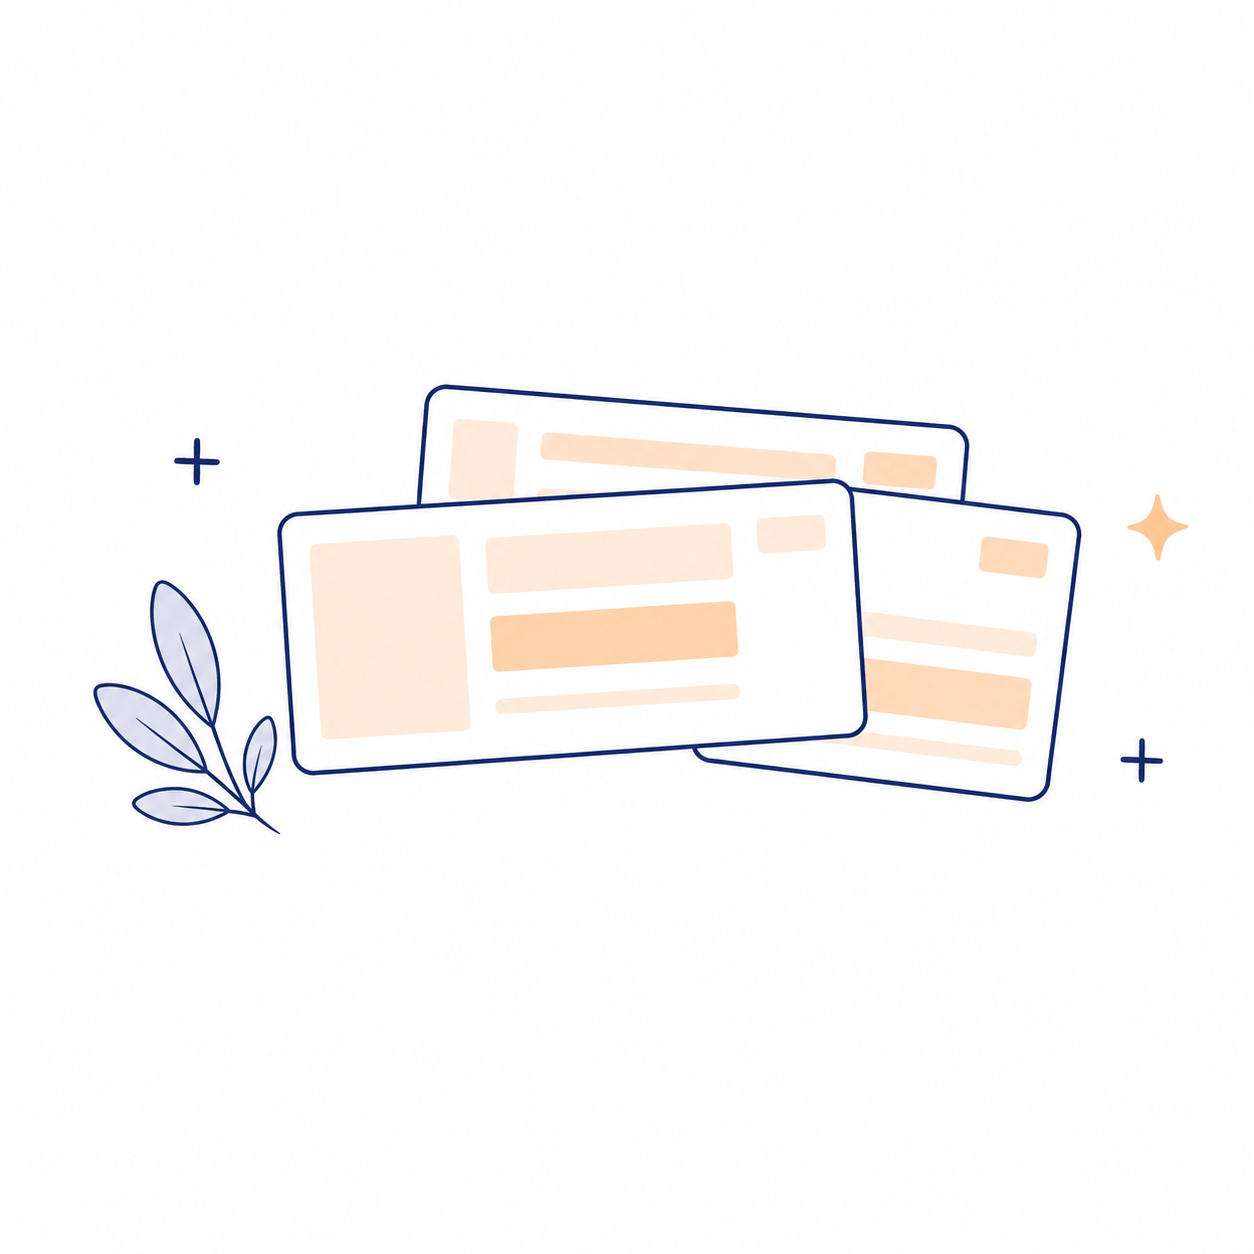
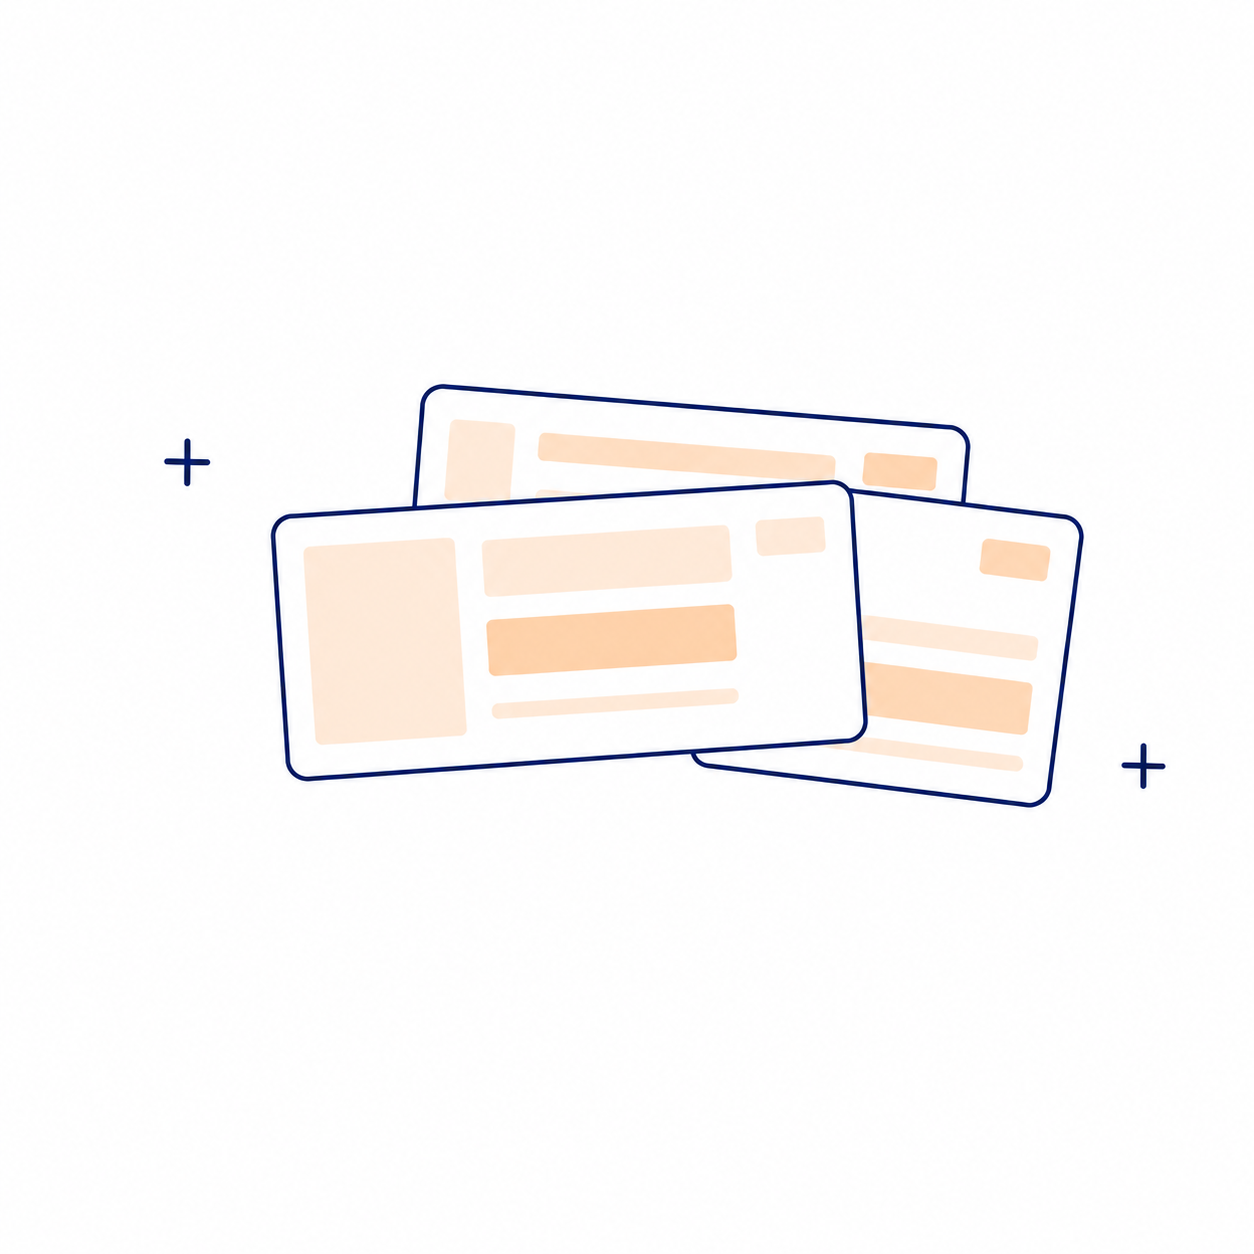
feat: update BandejaView to display new image when no results are found and adjust styling

diff --git a/src/components/bandeja/BandejaView.tsx b/src/components/bandeja/BandejaView.tsx
@@ -9,7 +9,7 @@ import { useAuth } from "@/contexts/AuthContext";
 import { Input } from "@/components/ui/input";
 import { Button } from "@/components/ui/button";
 import {
-    Search, RefreshCw, Download, Inbox, Maximize2,
+    Search, RefreshCw, Download, Maximize2,
     PanelLeftClose, PanelLeft, SlidersHorizontal,
     MoreVertical, CheckCircle2, X,
 } from "lucide-react";
@@ -396,9 +396,9 @@ export function BandejaView({ mode, cedulaFilter }: BandejaViewProps) {
                                     ))}
                                 </div>
                             ) : pageRows.length === 0 ? (
-                                <div className="py-16 px-4 text-center flex flex-col items-center gap-3">
-                                    <Inbox className="h-6 w-6 text-[#0D0D0D]/20" />
-                                    <p className="text-sm font-semibold text-[#0D0D0D]/50">Sin resultados</p>
+                                <div className="py-12 px-4 text-center flex flex-col items-center gap-2">
+                                    <Image src="/bandeja2.png" alt="" width={112} height={112} className="h-28 w-28 object-contain" />
+                                    <p className="text-sm font-semibold text-[#0D0D0D]/60">Sin resultados</p>
                                     <p className="text-[11px] text-[#0D0D0D]/35">Intenta con otro filtro o búsqueda</p>
                                 </div>
                             ) : (